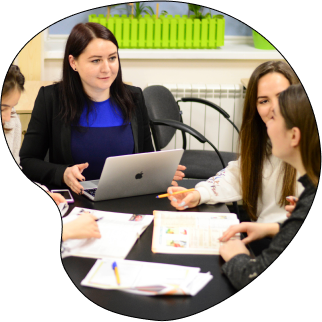
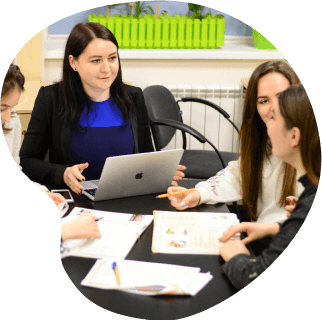
добавил фотки для ретины

diff --git a/src/partials/hero.html b/src/partials/hero.html
@@ -13,10 +13,27 @@
         <button class="hero-btn" type="button" href="#footer">
           хочу на бесплатное занятие
         </button>
+
       </div>
       <div class="hero-photo">
-        <img class="hero-img-second" src="./images/desktop/Hero2.png" alt="Главное фото2" />
-        <img class="hero-img-first" src="./images/desktop/Hero1.png" alt="Главное фото1" />
+        <div class="hero-img-second">
+          <picture>
+            <source srcset="./images/desktop/Hero2.png 1x, ./images/desktop/Hero2@2x.png 2x"
+              media="(min-width: 1314px)" />
+            <source srcset="./images/tablet/Hero2.png 1x, ./images/tablet/Hero2@2x.png 2x" media="(min-width: 768px)" />
+            <source srcset="./images/mobile/Hero2.png 1x, ./images/mobile/Hero2@2x.png 2x" media="(max-width: 767px)" />
+            <img src="./images/mobile/Hero2.png" alt="Главное фото2">
+          </picture>
+        </div>
+        <div class="hero-img-first">
+          <picture>
+            <source srcset="./images/desktop/Hero1.png 1x, ./images/desktop/Hero1@2x.png 2x"
+              media="(min-width: 1314px)" />
+            <source srcset="./images/tablet/Hero1.png 1x, ./images/tablet/Hero1@2x.png 2x" media="(min-width: 768px)" />
+            <source srcset="./images/mobile/Hero1.png 1x, ./images/mobile/Hero1@2x.png 2x" media="(max-width: 767px)" />
+            <img src="./images/mobile/Hero1.png" alt="Главное фото1">
+          </picture>
+        </div>
       </div>
     </div>
 

diff --git a/src/sass/layout/_hero.scss b/src/sass/layout/_hero.scss
@@ -63,6 +63,7 @@
     justify-content: space-between;
     margin-bottom: 114px;
   }
+
   @include for-size(desktop) {
     position: relative;
     margin-bottom: 241px;
@@ -79,7 +80,6 @@
   margin-top: 0;
   margin-bottom: 30px;
   width: 280px;
-
   font-weight: 800;
   font-size: 20px;
   line-height: 1.36;
@@ -104,7 +104,6 @@
   margin-top: 0;
   margin-bottom: 30px;
   width: 280px;
-
   font-weight: 700;
   font-size: 14px;
   line-height: 1.57;
@@ -220,6 +219,7 @@
     margin-top: 39px;
   }
 }
+
 .hero-img-first {
   position: absolute;
   display: block;
@@ -301,6 +301,7 @@
     align-items: center;
   }
 }
+
 .hero-icon-portret {
   position: absolute;
   display: block;
